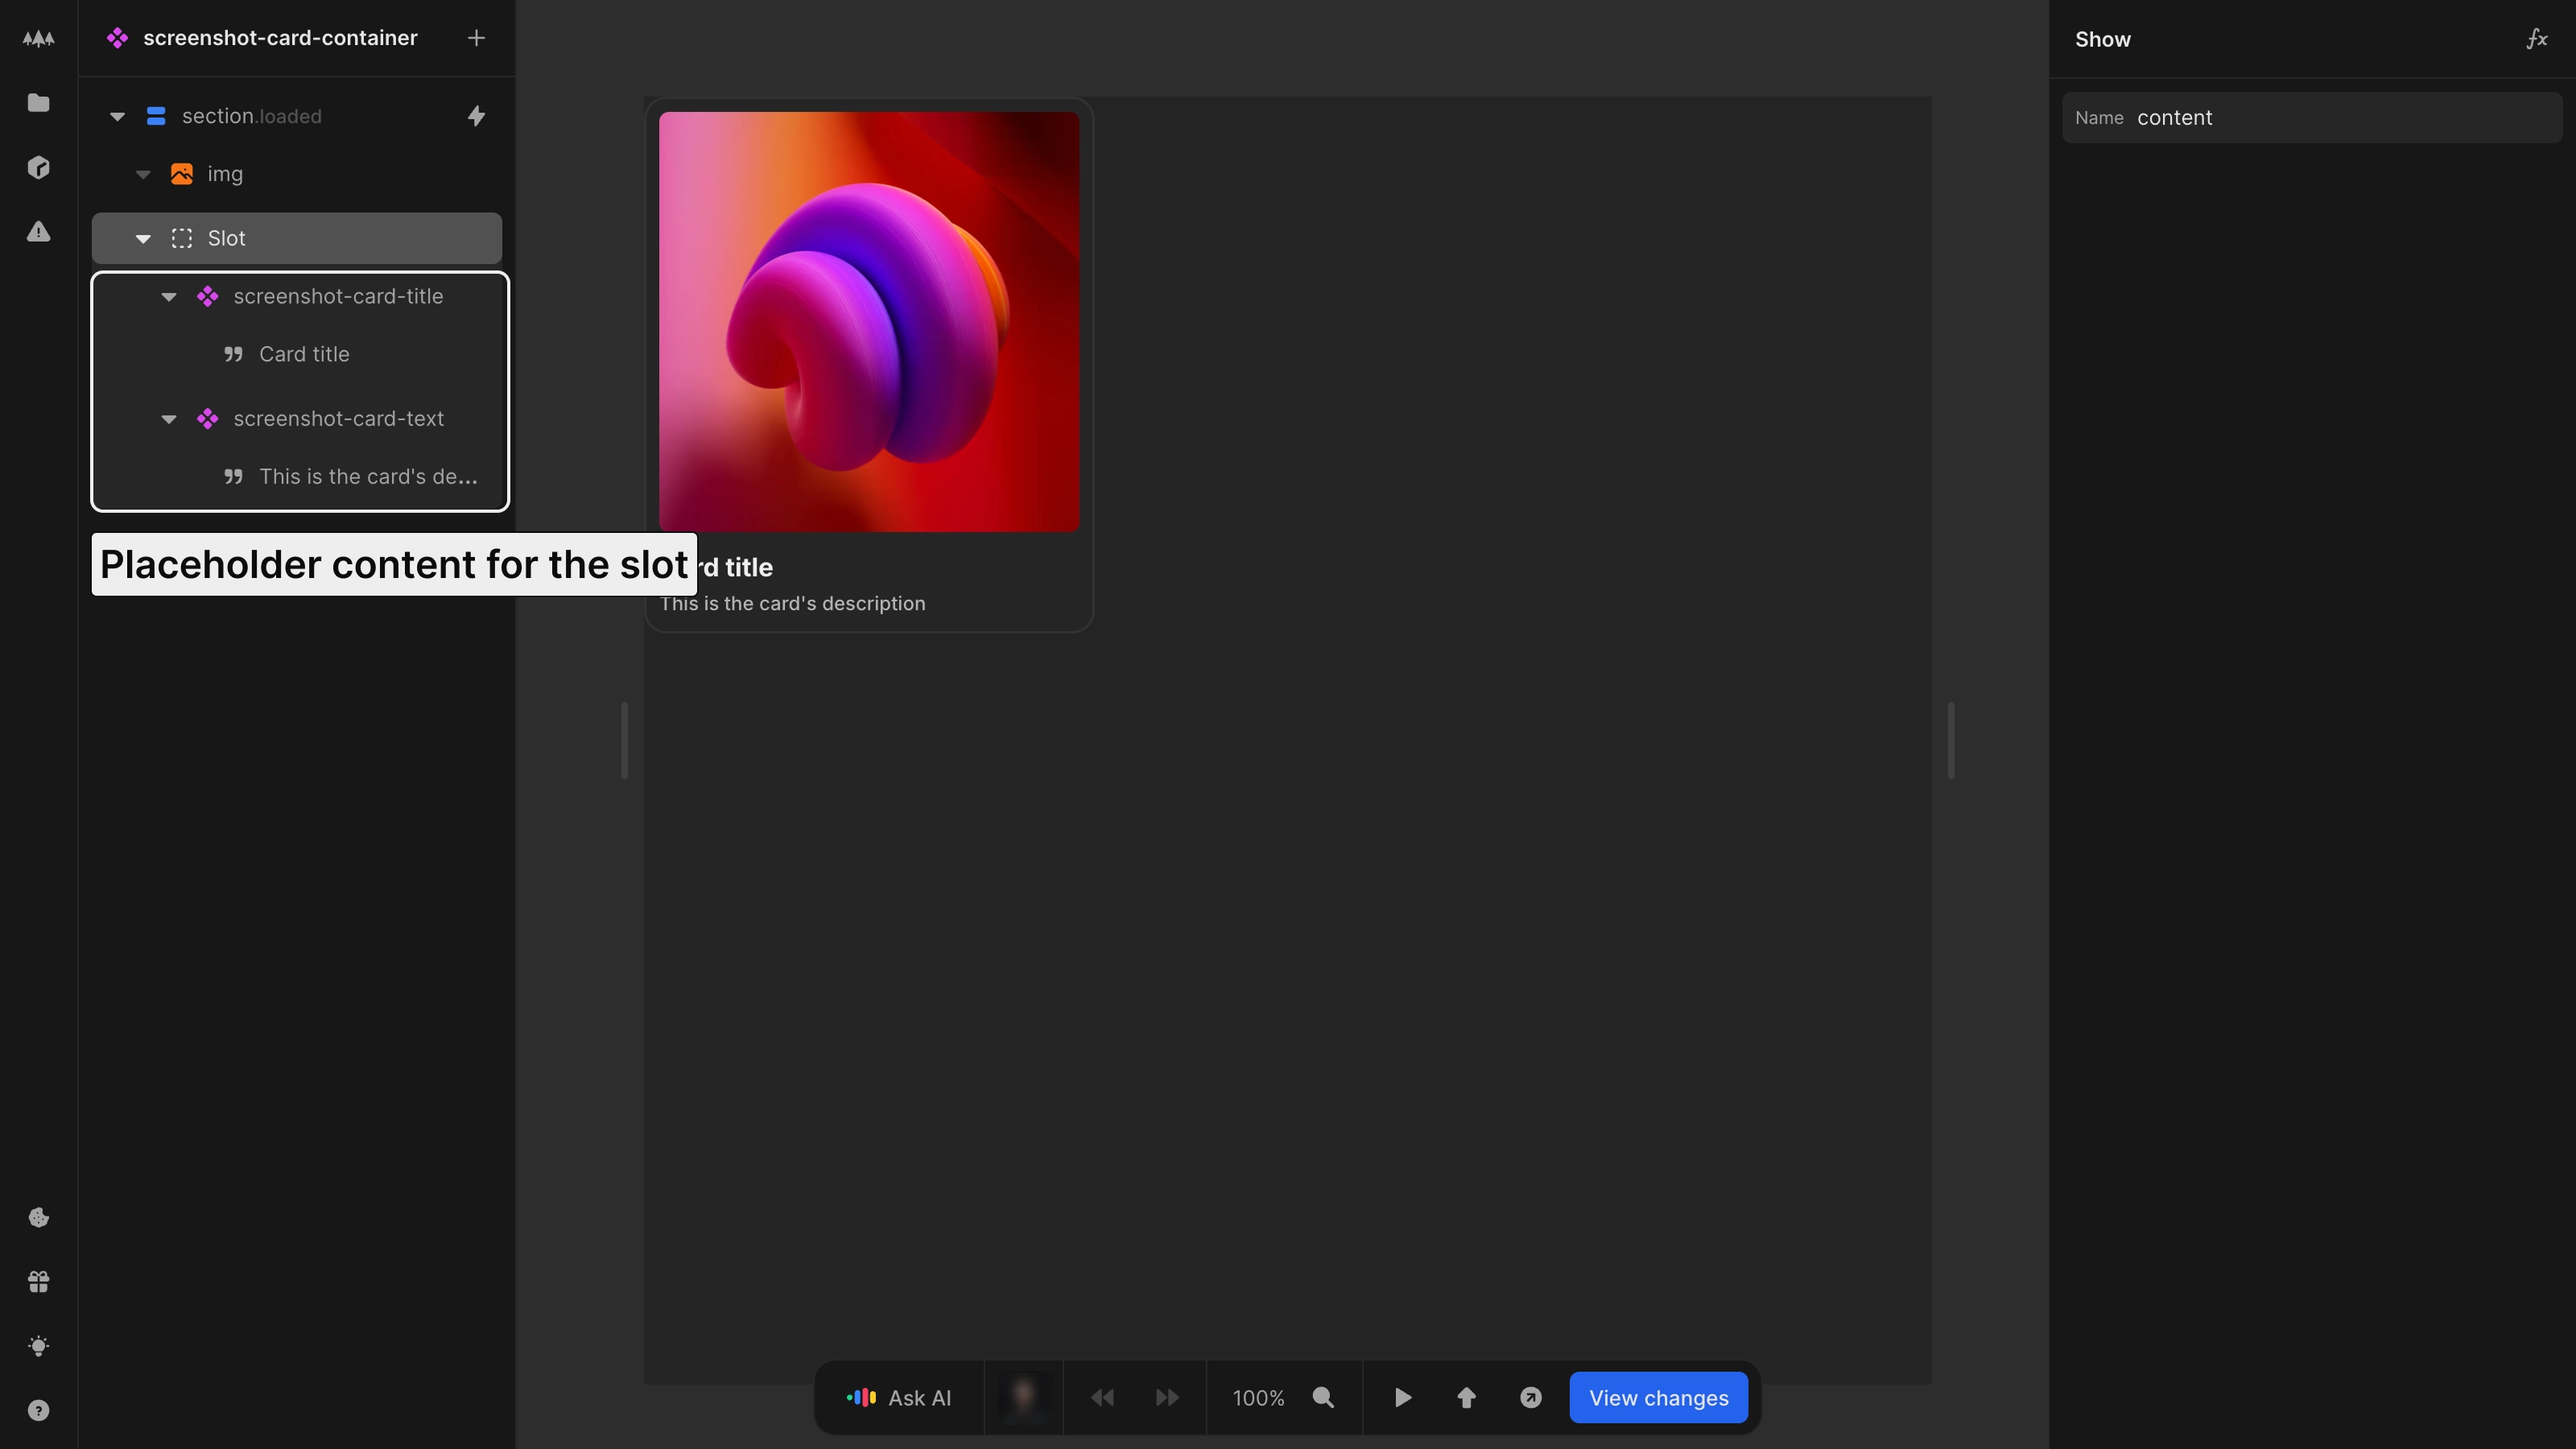
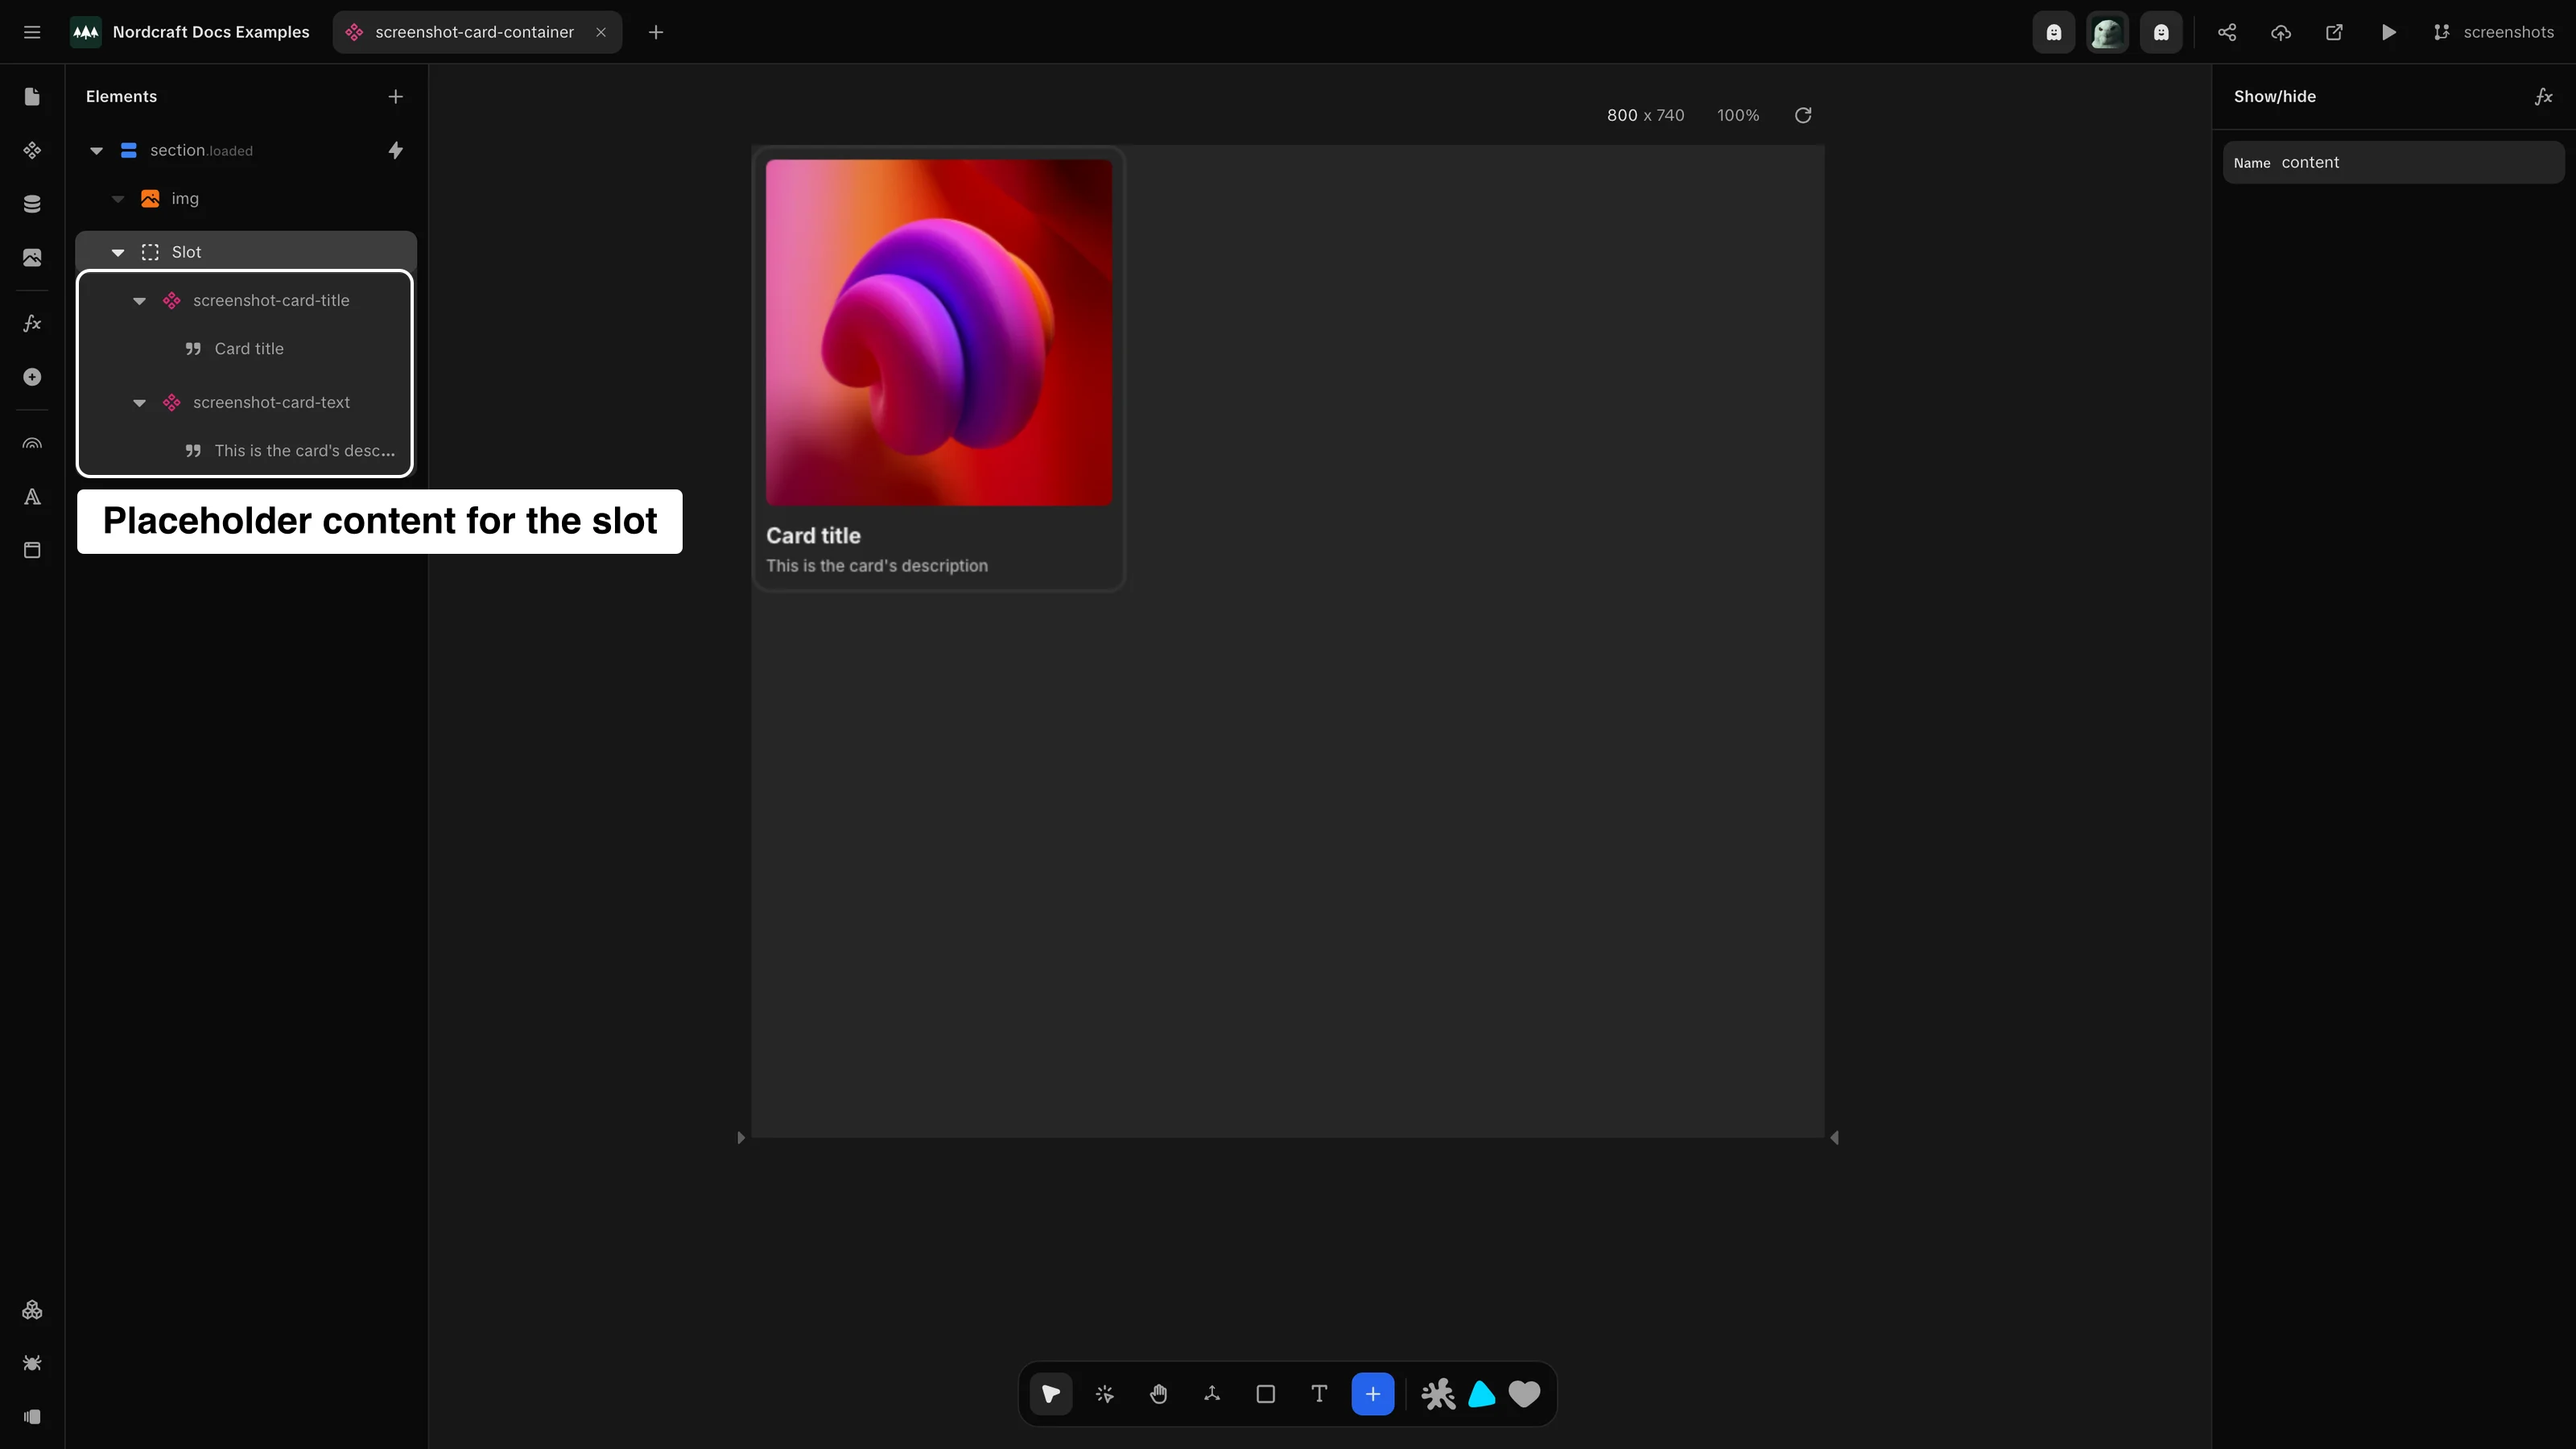
Placeholder content

diff --git a/scripts/capture-screenshots.ts b/scripts/capture-screenshots.ts
@@ -14,7 +14,33 @@ export interface AnnotationBadge {
   text: string
 }
 
-export type Annotation = AnnotationBadge
+export interface AnnotationBox {
+  type: 'box' | 'highlight' | 'selection'
+  x: number // reference 800x450 coordinate
+  y: number // reference 800x450 coordinate
+  width: number
+  height: number
+  rx?: number
+  stroke?: string
+  strokeWidth?: number
+}
+
+export interface AnnotationText {
+  type: 'text' | 'label'
+  x: number // reference 800x450 coordinate
+  y: number // reference 800x450 coordinate
+  text: string
+  width?: number
+  height?: number
+  rx?: number
+  fontSize?: number
+  fontWeight?: string
+  color?: string
+  backgroundColor?: string
+  paddingX?: number
+}
+
+export type Annotation = AnnotationBadge | AnnotationBox | AnnotationText
 
 export interface ScreenshotTarget {
   id: string
@@ -46,6 +72,43 @@ export function buildSvgOverlay(
         return `
         <rect x="${bx}" y="${by}" width="${bw}" height="${bh}" rx="${rx}" ry="${rx}" fill="#ffffff" stroke="#1a1a1a" stroke-width="${1 * scale}" />
         <text x="${tx}" y="${ty}" font-family="-apple-system, BlinkMacSystemFont, Inter, Helvetica, Arial, sans-serif" font-size="${fontSize}" font-weight="bold" fill="#000000" text-anchor="middle" dominant-baseline="central">${ann.text}</text>
+      `
+      }
+      if (
+        ann.type === 'box' ||
+        ann.type === 'highlight' ||
+        ann.type === 'selection'
+      ) {
+        const bx = ann.x * scale
+        const by = ann.y * scale
+        const bw = ann.width * scale
+        const bh = ann.height * scale
+        const rx = (ann.rx ?? 4) * scale
+        const stroke = ann.stroke ?? '#ffffff'
+        const strokeWidth = (ann.strokeWidth ?? 1) * scale
+        return `
+        <rect x="${bx}" y="${by}" width="${bw}" height="${bh}" rx="${rx}" ry="${rx}" fill="none" stroke="${stroke}" stroke-width="${strokeWidth}" />
+      `
+      }
+      if (ann.type === 'text' || ann.type === 'label') {
+        const bx = ann.x * scale
+        const by = ann.y * scale
+        const fontSize = (ann.fontSize ?? 11.5) * scale
+        const paddingX = (ann.paddingX ?? 4) * scale
+        const bw =
+          ann.width !== undefined
+            ? ann.width * scale
+            : (ann.text.length * (fontSize / scale) * 0.58 + paddingX * 2) * scale
+        const bh = (ann.height ?? 20) * scale
+        const rx = (ann.rx ?? 2) * scale
+        const tx = bx + bw / 2
+        const ty = by + bh / 2 + 0.5 * scale
+        const fill = ann.backgroundColor ?? '#ffffff'
+        const color = ann.color ?? '#000000'
+        const fontWeight = ann.fontWeight ?? 'bold'
+        return `
+        <rect x="${bx}" y="${by}" width="${bw}" height="${bh}" rx="${rx}" ry="${rx}" fill="${fill}" />
+        <text x="${tx}" y="${ty}" font-family="-apple-system, BlinkMacSystemFont, Inter, Helvetica, Arial, sans-serif" font-size="${fontSize}" font-weight="${fontWeight}" fill="${color}" text-anchor="middle" dominant-baseline="central">${ann.text}</text>
       `
       }
       return ''
@@ -543,6 +606,36 @@ export const TARGETS: ScreenshotTarget[] = [
     annotations: [
       { type: 'badge', x: 60, y: 20, text: '1' },
       { type: 'badge', x: 60, y: 24, text: '2' },
+    ],
+  },
+
+  // Placeholder content
+  {
+    id: 'placeholder-content',
+    name: 'placeholder-content',
+    outputDir: 'docs/components/compositions',
+    path: '/projects/docs_examples/branches/screenshots/components/screenshot-card-container?mode=design&canvas-tool=select&selection=nodes.Iry7BeAO7AjcLcJEL-sPT&rightpanel=attributes',
+    description: 'Placeholder content in slot',
+    setup: async (page: Page) => {
+      await page.waitForTimeout(500)
+    },
+    annotations: [
+      {
+        type: 'box',
+        x: 24,
+        y: 84,
+        width: 104,
+        height: 64,
+        rx: 4,
+      },
+      {
+        type: 'text',
+        x: 24,
+        y: 152,
+        width: 188,
+        height: 20,
+        text: 'Placeholder content for the slot',
+      },
     ],
   },
 

diff --git a/scripts/capture-screenshots.test.ts b/scripts/capture-screenshots.test.ts
@@ -1,0 +1,90 @@
+import { describe, expect, it } from 'bun:test'
+import {
+  type Annotation,
+  buildSvgOverlay,
+} from './capture-screenshots'
+
+describe('buildSvgOverlay', () => {
+  it('should render badge annotations', () => {
+    const annotations: Annotation[] = [
+      { type: 'badge', x: 100, y: 50, text: '1' },
+      { type: 'badge', x: 200, y: 150, text: '12' },
+    ]
+
+    const svg = buildSvgOverlay(annotations, 800, 450).toString()
+    expect(svg).toContain('<svg width="800" height="450"')
+    expect(svg).toContain('fill="#ffffff" stroke="#1a1a1a"')
+    expect(svg).toContain('>1<')
+    expect(svg).toContain('>12<')
+  })
+
+  it('should render selection/highlight box annotations', () => {
+    const annotations: Annotation[] = [
+      {
+        type: 'box',
+        x: 24,
+        y: 84,
+        width: 104,
+        height: 64,
+        rx: 4,
+      },
+      {
+        type: 'highlight',
+        x: 50,
+        y: 100,
+        width: 200,
+        height: 80,
+        stroke: '#ff0000',
+        strokeWidth: 2,
+      },
+    ]
+
+    const svg = buildSvgOverlay(annotations, 800, 450).toString()
+    expect(svg).toContain('x="24"')
+    expect(svg).toContain('y="84"')
+    expect(svg).toContain('width="104"')
+    expect(svg).toContain('height="64"')
+    expect(svg).toContain('rx="4"')
+    expect(svg).toContain('fill="none"')
+    expect(svg).toContain('stroke="#ffffff"')
+
+    // Scaled to 3200x1800
+    const svgLarge = buildSvgOverlay(annotations, 3200, 1800).toString()
+    expect(svgLarge).toContain('x="96"')
+    expect(svgLarge).toContain('y="336"')
+    expect(svgLarge).toContain('width="416"')
+    expect(svgLarge).toContain('height="256"')
+    expect(svgLarge).toContain('stroke="#ff0000"')
+    expect(svgLarge).toContain('stroke-width="8"')
+  })
+
+  it('should render text on white background annotations', () => {
+    const annotations: Annotation[] = [
+      {
+        type: 'text',
+        x: 24,
+        y: 152,
+        width: 188,
+        height: 20,
+        text: 'Placeholder content for the slot',
+      },
+    ]
+
+    const svg = buildSvgOverlay(annotations, 800, 450).toString()
+    expect(svg).toContain('x="24"')
+    expect(svg).toContain('y="152"')
+    expect(svg).toContain('width="188"')
+    expect(svg).toContain('height="20"')
+    expect(svg).toContain('fill="#ffffff"')
+    expect(svg).toContain('Placeholder content for the slot')
+    expect(svg).toContain('text-anchor="middle"')
+
+    // Scaled to 3200x1800
+    const svgLarge = buildSvgOverlay(annotations, 3200, 1800).toString()
+    expect(svgLarge).toContain('x="96"')
+    expect(svgLarge).toContain('y="608"')
+    expect(svgLarge).toContain('width="752"')
+    expect(svgLarge).toContain('height="80"')
+    expect(svgLarge).toContain('font-size="46"')
+  })
+})
